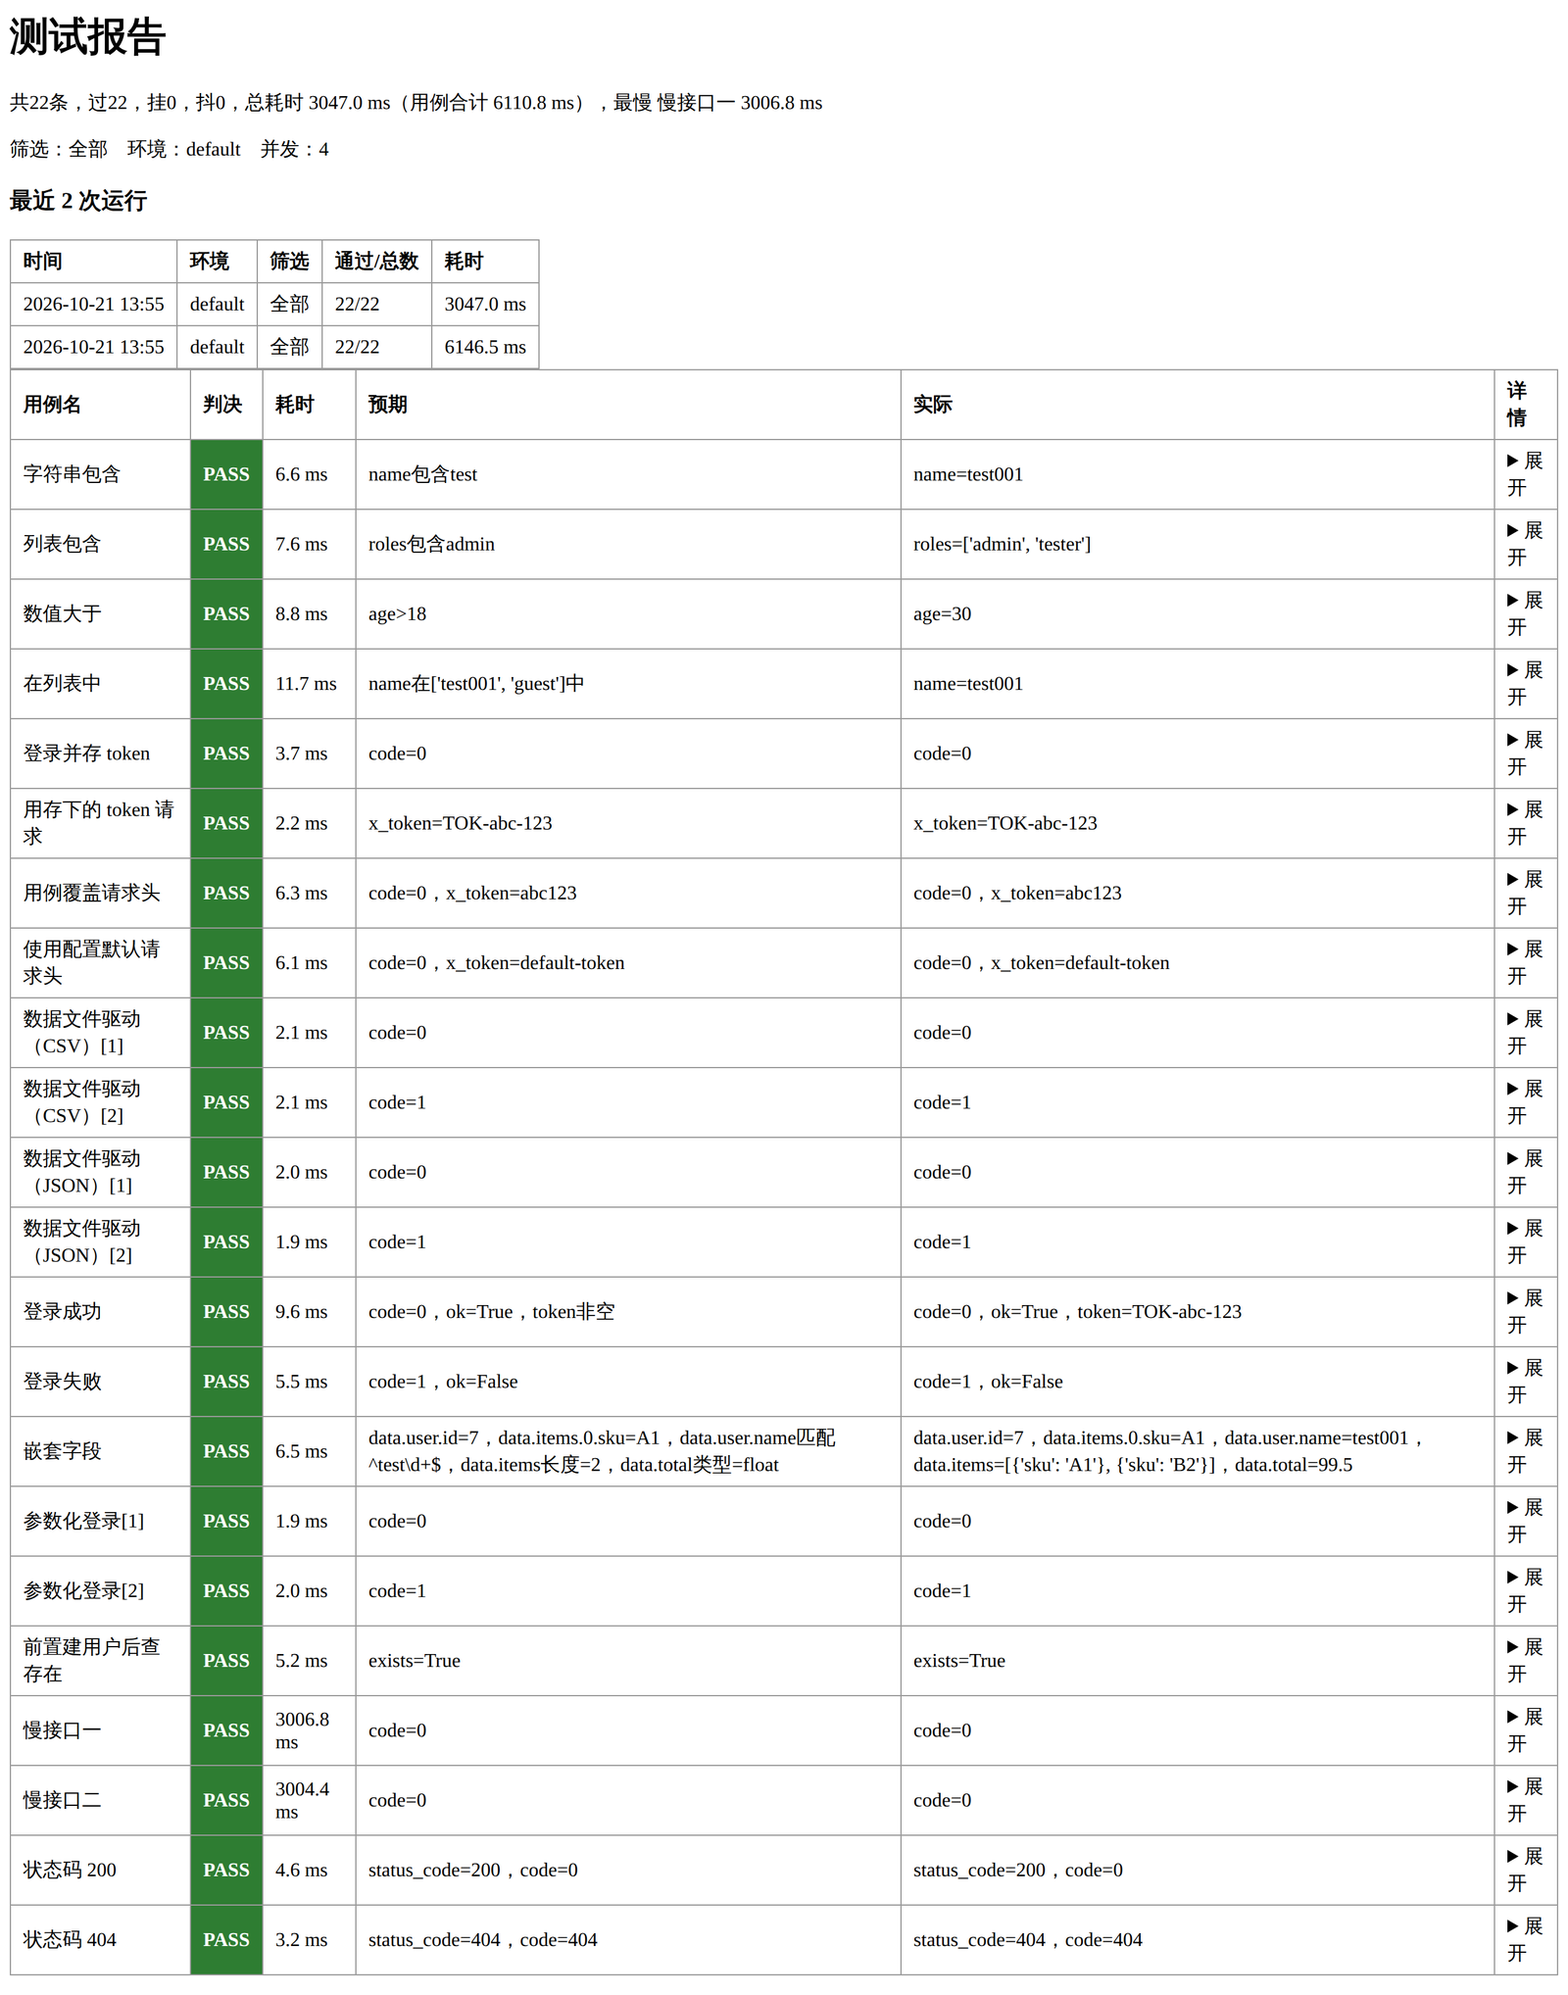
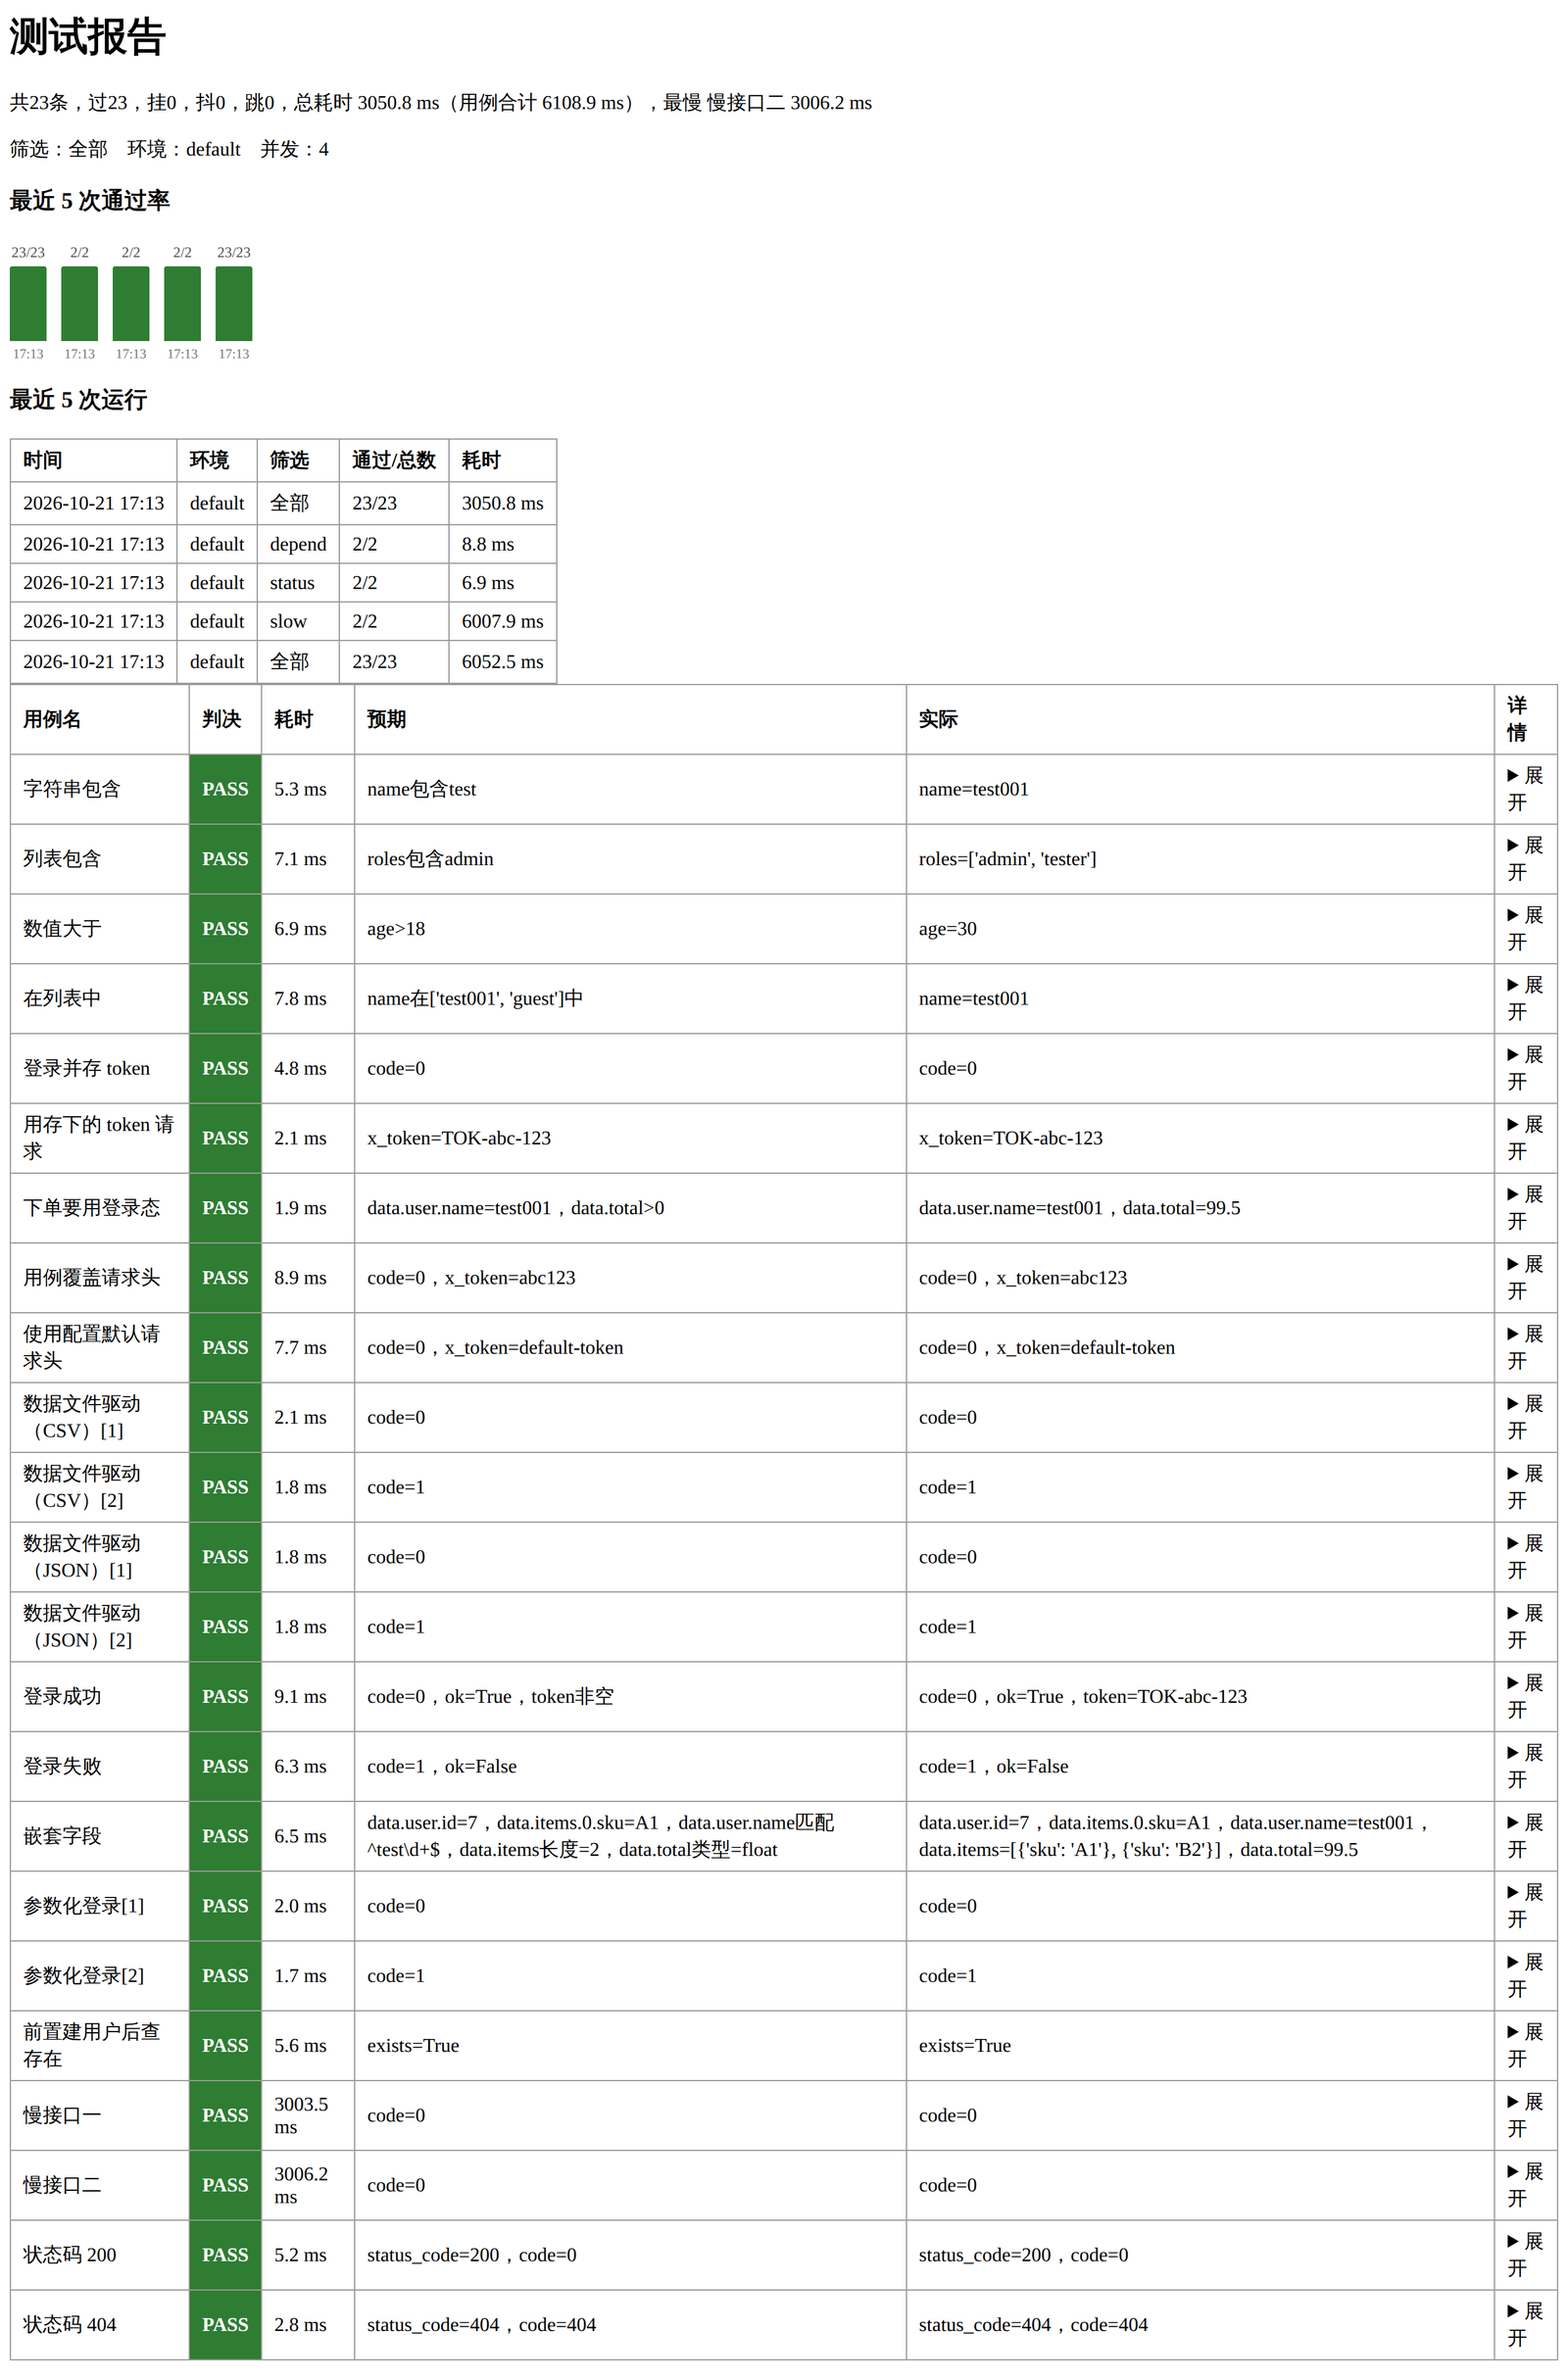
docs: 更新 v0.9 README 与报告截图

diff --git a/README.md b/README.md
@@ -2,9 +2,9 @@
 
 [![test](https://github.com/Stefan3199/mini-ui-autotest/actions/workflows/test.yml/badge.svg)](https://github.com/Stefan3199/mini-ui-autotest/actions/workflows/test.yml)
 
-一个从零实现的接口自动化测试框架（v0.8）。用例写在 YAML 里，跑一条命令，出 HTML 报告。
+一个从零实现的接口自动化测试框架（v0.9）。用例写在 YAML 里，跑一条命令，出 HTML 报告。
 
-名字里的 ui 是给后续 UI 自动化留的位置，v0.8 仍只做接口测试。
+名字里的 ui 是给后续 UI 自动化留的位置，v0.9 仍只做接口测试。
 
 ## 特性
 
@@ -29,6 +29,9 @@
 - **失败重跑**：`--rerun 2` 让挂掉的用例再跑两轮，通过的在报告里标注重跑次数，不掩盖问题
 - **报告归档**：每次运行存一份带时间戳的 HTML 到 `report/archive/`，只留最近 20 份
 - **只列不跑**：`--list` 列出筛选后将要执行的用例，和标签、串行通道一起显示
+- **用例依赖**：`depends_on` 声明前置用例，加载时查重名、查缺失、查成环，依赖链整条串行
+- **依赖失败即跳过**：上游没通过，下游判 SKIP 并写明原因，不跟着一起报错
+- **通过率趋势**：报告顶部画最近十次运行的通过率，一眼看出是稳还是在抖
 - **HTML 报告**：总账、判决、耗时、预期与实际对比、请求详情、逐条断言结果
 - **自动 CI**：push 或 PR 触发 GitHub Actions，跑测试并上传报告
 - **分层结构**：用例加载、请求发送、断言、调度各管一摊
@@ -160,6 +163,7 @@ timeout: 10
 - `data`：可选，参数化数据列表，每行一组变量，用例按行展开
 - `data_file`：可选，从 CSV 或 JSON 读数据行，和 `data` 二选一
 - `serial`：可选，写 `true` 时这条用例永远走串行通道
+- `depends_on`：可选，前置用例名列表，依赖链整条走串行，上游没过本用例判 SKIP
 - `setup`：可选，前置请求列表，发主请求之前逐条跑
 - `teardown`：可选，后置请求列表，主请求之后必跑
 - `expect`：断言列表，全部命中才算 PASS
@@ -320,29 +324,61 @@ setup 里任何一步没拿到响应，这条用例直接判 FAIL，主请求不
 
 并发适合只读接口。会改服务端共享状态的用例（比如建用户、删用户）在用例里写 `serial: true`，这条就固定走串行通道。
 
+### 依赖
+
+变量传递靠顺序，顺序靠文件顺序，改个文件名就可能断。`depends_on` 把这件事写到明面上：
+
+```yaml
+- name: 下单要用登录态
+  depends_on: [登录并存 token]
+  url: /order
+  method: GET
+  headers:
+    X-Token: "${token}"
+  expect:
+    - field: code
+      op: eq
+      value: 0
+```
+
+加载时按依赖做拓扑排序，用例在报告里的位置就是执行顺序，跟文件名无关。同时查三件事：名字重没重、依赖的用例在不在、依赖有没有成环。三种错误都在加载阶段报出来，不会跑到一半才炸。
+
+依赖链整条进串行通道。因为被依赖的用例如果留在并发通道里，执行顺序就不受控，`${token}` 可能拿到空值。
+
+上游没通过，下游判 `SKIP`，原因写「依赖 X 未通过」。SKIP 是没跑，不是跑挂了，所以不计入失败数，`--only-failed` 也不会把它当成失败去重跑。
+
+按标签筛选时，选中用例的依赖会自动带进来，命令行会说明补了哪几条：
+
+```
+筛选标签：depend，共1条
+按标签 depend 筛选，补上依赖 1 条：登录并存 token
+```
+
 ## 报告
 
 报告是单个 HTML 文件，包含：
 
-- 顶部总账：共几条，过、挂、抖各几条，墙钟总耗时和用例耗时合计，最慢用例，当前筛选、环境、并发数
+- 顶部总账：共几条，过、挂、抖、跳各几条，墙钟总耗时和用例耗时合计，最慢用例，当前筛选、环境、并发数
+- 通过率趋势：最近十次运行画成柱状，柱顶是通过数和总数，全绿、有挂、大面积挂分三种颜色
 - 最近几次运行：时间、环境、筛选、通过数、墙钟耗时，最多显示五条
 - 每条用例：名字、判决、耗时、预期摘要、实际摘要
 - 详情折叠：请求方法、地址、参数、请求头、存下的变量，失败原因，逐条断言结果
 
-判决三态：
+判决四态：
 
 - `PASS`：全部断言命中
 - `FAIL`：有断言没中
 - `FLAKY`：重试次数用完仍没拿到响应，属于环境抖动，不算业务失败
+- `SKIP`：依赖的用例没通过，本用例没跑，原因写在报告里
 
 重跑通过的用例仍显示 `PASS`，下面标一行「重跑 N 次」，顶部总账单独给出重跑通过几条，不算假绿。
 
 报告目录里还有两份生成物：
 
-- `junit.xml`：JUnit 格式，`FAIL` 记 `failure`，`FLAKY` 记 `error`，CI 平台拿这个出测试报表
+- `junit.xml`：JUnit 格式，`FAIL` 记 `failure`，`FLAKY` 记 `error`，`SKIP` 记 `skipped`，CI 平台拿这个出测试报表
 - `archive/`：每次运行的 HTML 快照，文件名带时间和筛选条件，只保留最近 20 份
 
-22 条用例全绿时长这样：
+23 条用例全绿时长这样：
 
 ![测试报告](docs/images/report.png)
 
@@ -378,7 +414,7 @@ mini-ui-autotest/
 ├── docs/
 │   └── images/            # README 截图
 ├── engine/
-│   ├── case_loader.py     # 读配置和用例，深合并环境，展开参数化，读数据文件
+│   ├── case_loader.py     # 读配置和用例，深合并环境，展开参数化，读数据文件，排依赖
 │   ├── request_sender.py  # 发请求，返回状态码和响应体
 │   ├── assertion.py       # 断言引擎，含嵌套字段取值
 │   └── variables.py       # 变量替换 ${name}
@@ -417,6 +453,11 @@ mini-ui-autotest/
 - JUnit 里 `FLAKY` 记 `error` 不记 `failure`，CI 上能区分业务失败和环境问题。
 - 归档按文件名里的时间戳排序，只留最近 20 份，跑一年也不会撑爆磁盘。
 - 并发用线程不用进程：用例都在等网络，GIL 不是瓶颈；进程池还要处理 Windows 的启动守卫和结果序列化，收益不值。
+- 依赖用拓扑排序定顺序，不靠文件名的字典序；排序时顺手把重名、缺失、成环三种错误挡在加载阶段。
+- 依赖链整条进串行通道：被依赖的用例如果留在并发通道，执行顺序就不受控，`${token}` 可能拿到空值。
+- 上游没通过判 `SKIP` 不判 `FAIL`：SKIP 是没跑，混进失败数会让失败数虚高，CI 上分不清该修谁。
+- 按标签筛选时自动把依赖带进来，命令行说明补了哪几条，避免只选下游导致整批跳过。
+- 趋势图画最近十次，柱高按通过率算，全绿、有挂、大面积挂分三种颜色，表格里的数字仍然保留。
 - CI 看退出码不看屏幕输出，用例有挂或抖时 `run.py` 返回 1。
 
 ## Roadmap
@@ -428,6 +469,7 @@ mini-ui-autotest/
 - v0.6（已完成）：多环境、setup/teardown、并发执行
 - v0.7（已完成）：外部数据文件、只跑失败用例、运行历史
 - v0.8（已完成）：JUnit 报告、失败重跑、报告归档、--list
+- v0.9（已完成）：用例依赖 depends_on、SKIP 判决、通过率趋势图
 - 远期：Playwright UI 自动化
 
 ## License
